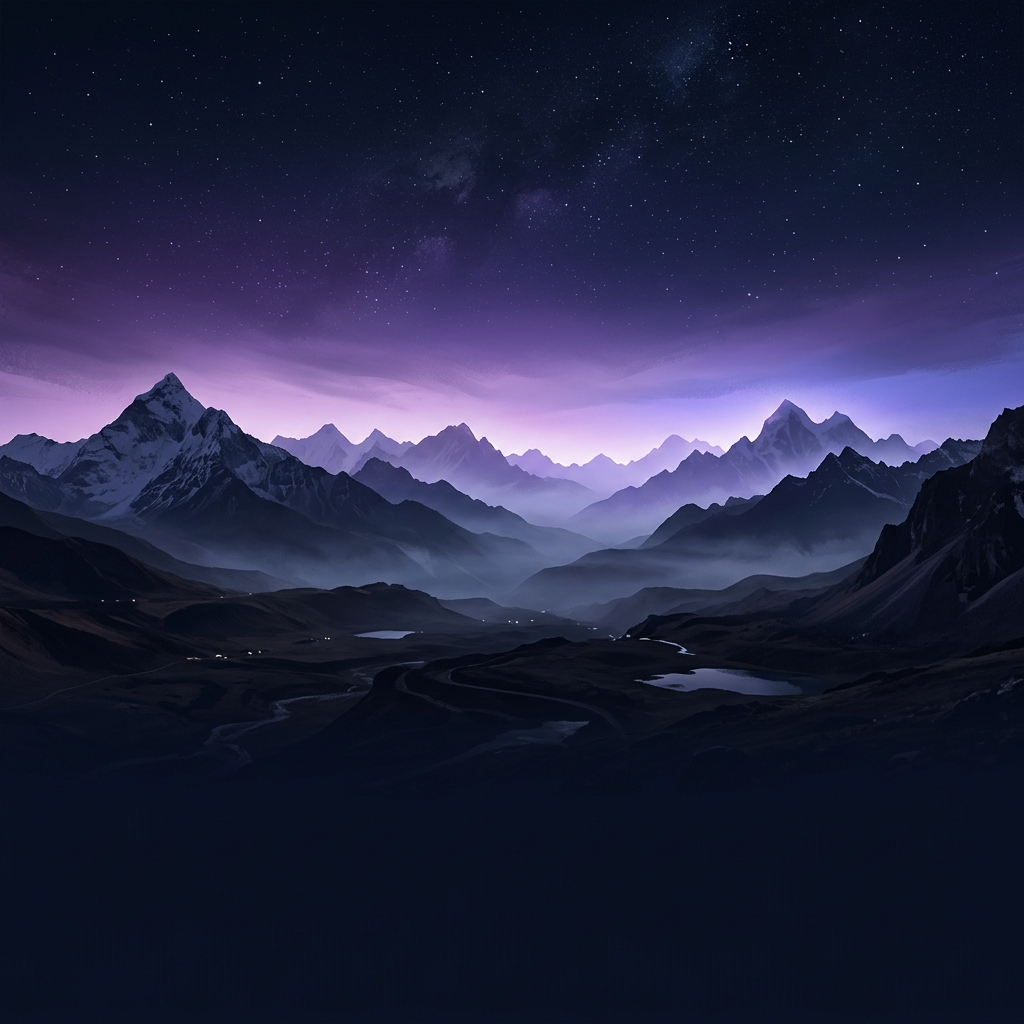
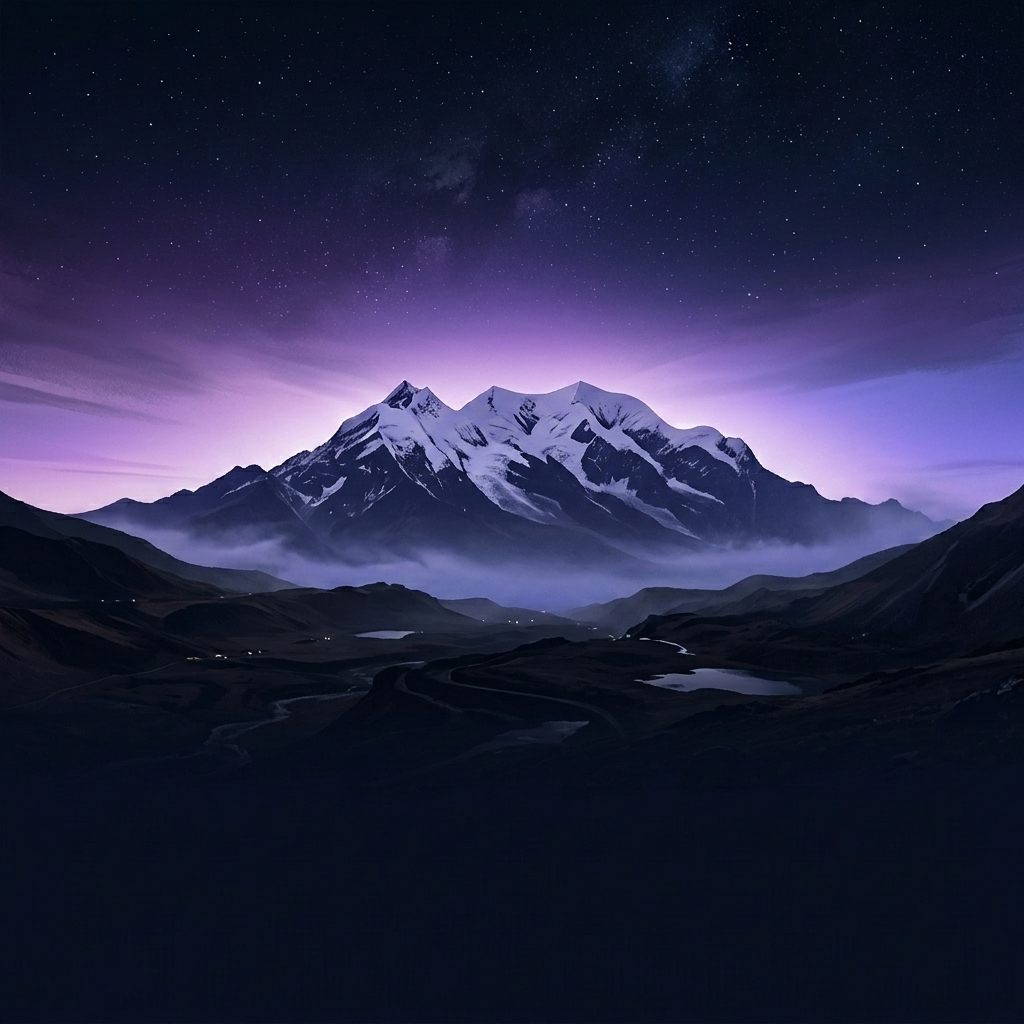
Segunda versión estable

Changed region(s): [[0.0, 0.25, 1.0, 0.625]]

diff --git a/src/styles/global.css b/src/styles/global.css
@@ -1,7 +1,7 @@
 @import "tailwindcss";
 
 /* ══════════════════════════════════════════════════════
-   Ayni.AI — Andean High-Tech Editorial Design System
+   Ayni.AI — High-Altitude Digital Editorial Design System
    Tailwind v4 @theme tokens
    
    PARAMETRIZABLE: Cambiar cualquier valor de @theme

diff --git a/.agent/docs/design-system.md b/.agent/docs/design-system.md
@@ -1,17 +1,17 @@
-# Andean High-Tech Editorial — Design System
+# High-Altitude Digital Editorial — Design System
 
 > Sistema de diseño oficial para la landing page de **Ayni.AI**.
 > Toda decisión de UI/UX debe respetar estas reglas sin excepción.
 
 ---
 
-## 1. Visión Creativa: "The Ethereal Altiplano"
+## 1. Visión Creativa: "The Atmospheric Summit"
 
 ### Estética
 
 - **Prohibido** el estilo "SaaS estándar" (bloques simétricos, colores planos, layout genérico).
 - Priorizar **grandes espacios negativos**, **asimetría intencional** y **profundidad atmosférica**.
-- La interfaz debe sentirse como un paisaje etéreo del altiplano: expansivo, misterioso, profundo.
+- La interfaz debe sentirse como un paisaje etéreo de alta montaña: expansivo, misterioso, profundo.
 
 ### Estructura
 
